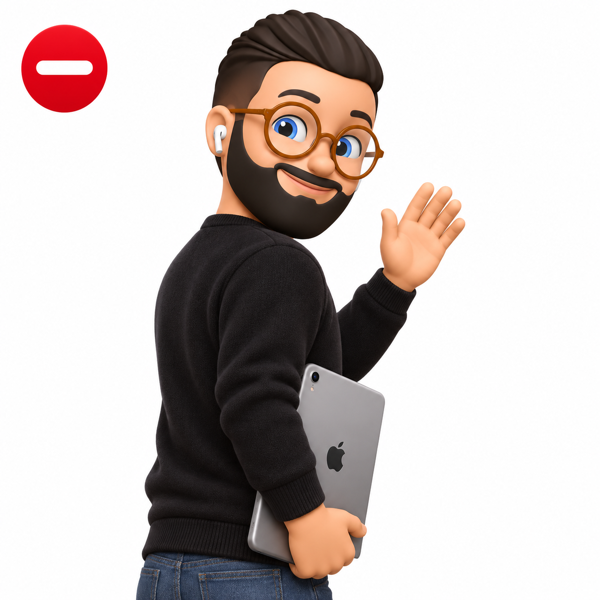
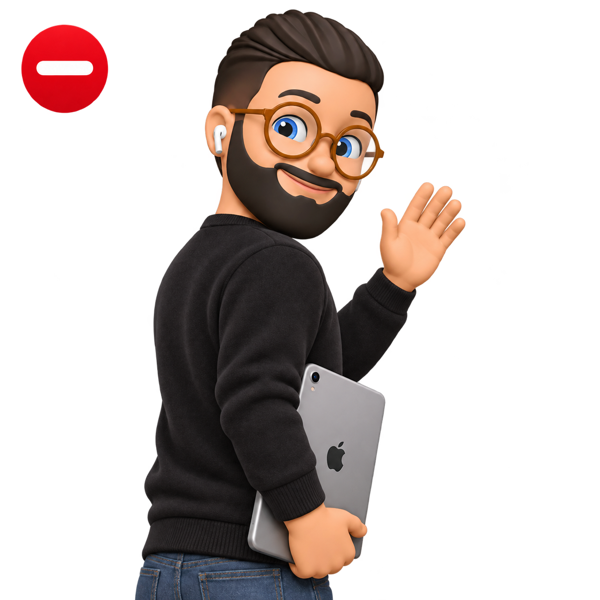
Afficher les Memoji sur fond transparent

diff --git a/docs/style.css b/docs/style.css
@@ -16,7 +16,7 @@ button{border:1px solid transparent;background:#a2c8ff;color:#102642;font-weight
 @media(min-width:650px){.slot{grid-template-columns:1fr 1fr 1fr 1.2fr auto;align-items:end}.slot button{grid-column:auto}}
 
 .status-copy{display:flex;min-width:0;flex-direction:column;align-items:center;gap:clamp(14px,4vh,38px)}
-#memoji{display:block;width:min(55vw,34vh,320px);height:auto;aspect-ratio:1;object-fit:contain;background:#fff;border-radius:22px;flex-shrink:0}
+#memoji{display:block;width:min(55vw,34vh,320px);height:auto;aspect-ratio:1;object-fit:contain;flex-shrink:0}
 @media(orientation:landscape) and (min-width:720px){
  .hero:has(#memoji:not([hidden])){flex-direction:row;text-align:left}
  .hero:has(#memoji:not([hidden])) .status-copy{align-items:flex-start}
